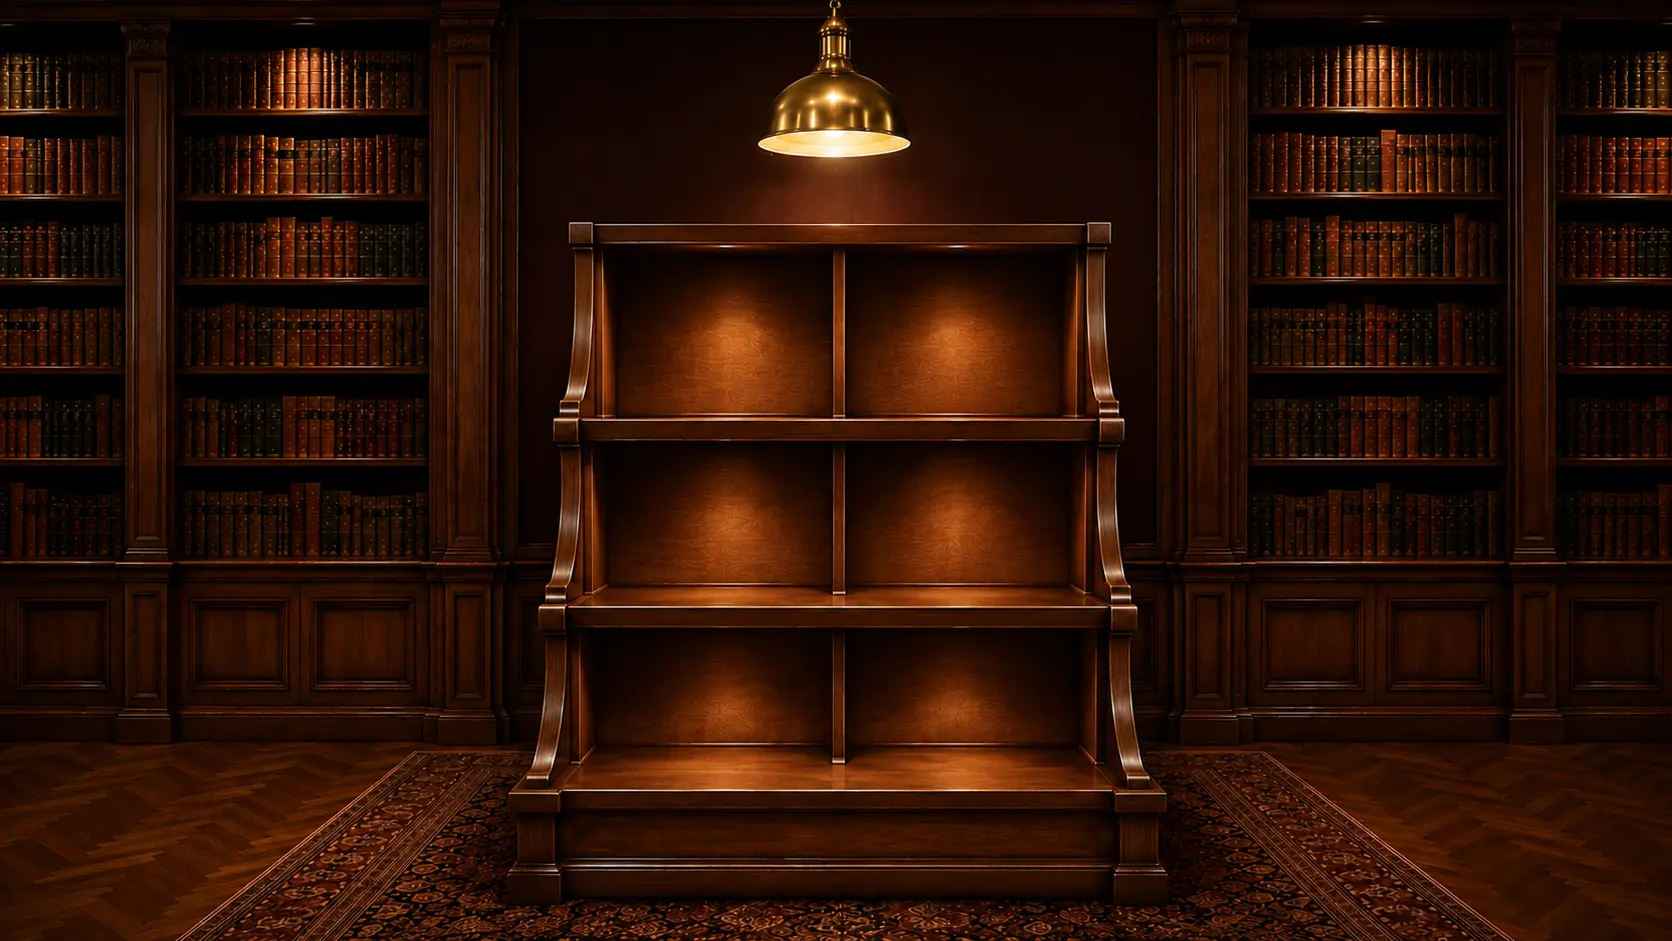
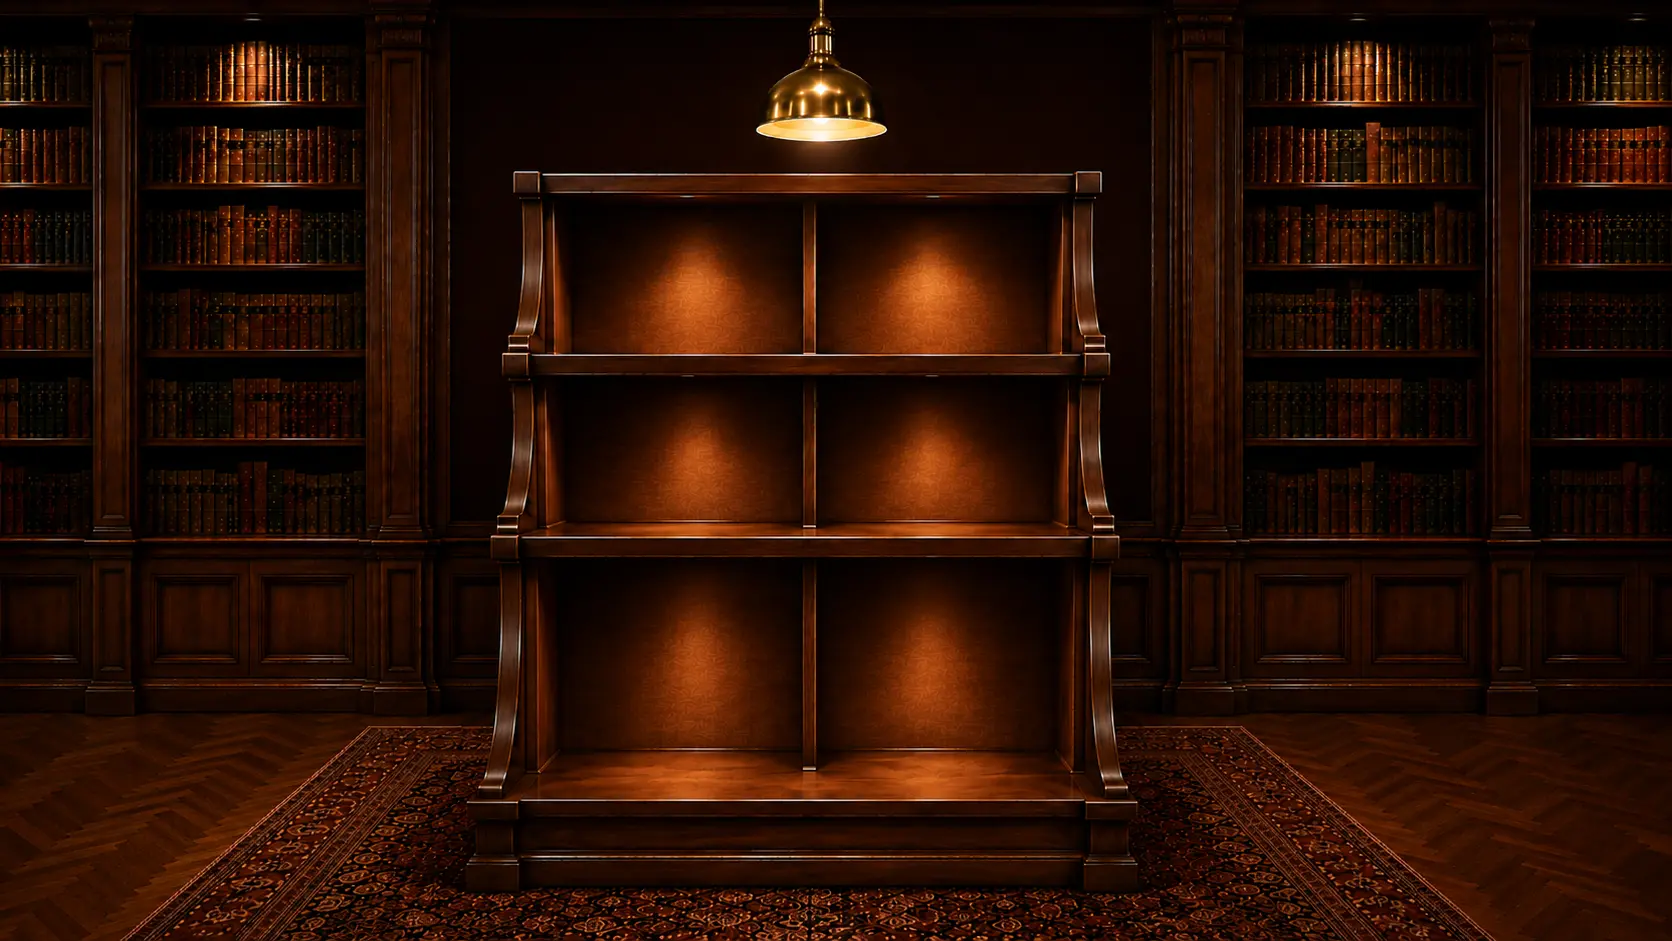
Add files via upload

diff --git a/wunderkammer_shell_v4_4.html b/wunderkammer_shell_v4_4.html
@@ -494,6 +494,24 @@ html, body {
   transform: translate(-50%, -100%) translateY(-8px) scale(1.05);
   filter: drop-shadow(5px 10px 18px rgba(0,0,0,0.9)); z-index: 10;
 }
+/* ── 편집 모드 (heritage 보물 편집 이식: 선택·드래그·핸들 크기) ── */
+.floor-content[data-floor="3"].editing .cover-book { cursor: grab; }
+.floor-content[data-floor="3"].editing .cover-book:hover { transform: translate(-50%,-100%); filter: drop-shadow(2px 5px 10px rgba(0,0,0,0.75)); }
+.floor-content[data-floor="3"].editing .cover-book.grabbing { cursor: grabbing; }
+.floor-content[data-floor="3"] .cover-book.sel img { outline: 2px solid #e9cf9c; outline-offset: 4px; }
+.floor-content[data-floor="3"] .cover-book .bk-handle {
+  position: absolute; right: -11px; bottom: -11px; width: 24px; height: 24px;
+  border-radius: 50%; background: #e9cf9c; border: 2px solid #5a3a18;
+  cursor: nwse-resize; display: none; z-index: 7; touch-action: none;
+}
+.floor-content[data-floor="3"].editing .cover-book.sel .bk-handle { display: block; }
+.floor-content[data-floor="3"] .bk-edit-toggle {
+  position: absolute; left: 50%; bottom: 54px; transform: translateX(-50%);
+  padding: 9px 18px; border-radius: 20px; font-size: 13px; cursor: pointer;
+  background: rgba(40,25,20,0.82); color: #e8d4a0; border: 1px solid rgba(184,136,76,0.5);
+  z-index: 12; transition: background 0.2s, color 0.2s;
+}
+.floor-content[data-floor="3"] .bk-edit-toggle.on { background: #b8884c; color: #2a1810; font-weight: 600; }
 /* 진열대 UI — fixed → absolute (층 박스 기준) */
 .floor-content[data-floor="3"] .bk-nav-arrow {
   position: absolute; top: 50%; transform: translateY(-50%);
@@ -2387,6 +2405,8 @@ const Floor3 = (() => {
   let currentShelfPage = 0;
   let isTransitioning = false;
   let soundEnabled = true;
+  let editMode = false;     // ✎ 배치 바꾸기 (heritage 보물 편집 이식)
+  let selEl = null;         // 현재 선택된 책 el
 
   function markup() {
     return `
@@ -2403,18 +2423,23 @@ const Floor3 = (() => {
         <button class="bk-nav-arrow bk-nav-right" id="bk-next">›</button>
         <div class="bk-dots" id="bk-dots"></div>
         <div class="bk-hint">책을 클릭해 펼쳐보세요</div>
+        <button class="bk-edit-toggle" id="bk-edit-toggle">✎ 배치 바꾸기</button>
         <button class="pw-toggle" aria-label="인물벽으로 돌아서기">✦ 나의 별들</button>
         <div class="pw-face"><div class="pw-canvas"></div></div>
       </div>`;
   }
 
   async function mount() {
-    currentShelfPage = 0; isTransitioning = false;
+    currentShelfPage = 0; isTransitioning = false; editMode = false; selEl = null;
     await loadBooks();                                 // DB(wunderkammer_books) → BOOKS, PAGES
     buildShelfPages();
     buildDots();
     document.getElementById('bk-prev').addEventListener('click', () => slide(-1));
     document.getElementById('bk-next').addEventListener('click', () => slide(+1));
+    const eb = document.getElementById('bk-edit-toggle');
+    if (eb) { eb.classList.remove('on'); eb.textContent = '✎ 배치 바꾸기'; eb.addEventListener('click', toggleEdit); }
+    const fc = document.querySelector('.floor-content[data-floor="3"]');
+    if (fc) fc.classList.remove('editing');
     SideWall.bind(3);                                  // 인물벽(저술가) 90도
   }
 
@@ -2425,11 +2450,12 @@ const Floor3 = (() => {
     if (!uid) { buildPages(); return; }
     try {
       const rows = await sbFetch(`/rest/v1/wunderkammer_books?owner_id=eq.${uid}`
-        + `&select=id,title,author,cover_url,cover_w,cover_h,essay_title,essay_body,seq`
+        + `&select=id,title,author,cover_url,cover_w,cover_h,pos_x,pos_y,scale,tilt,essay_title,essay_body,seq`
         + `&order=seq.asc.nullslast,created_at.asc`);
       BOOKS = (rows || []).map(r => ({
         id: r.id, title: r.title, author: r.author, cover: r.cover_url,
         cover_w: r.cover_w, cover_h: r.cover_h,
+        pos_x: r.pos_x, pos_y: r.pos_y, scale: r.scale, tilt: r.tilt,
         essay_title: r.essay_title, essay_body: r.essay_body
       }));
     } catch (e) { BOOKS = []; }
@@ -2445,6 +2471,14 @@ const Floor3 = (() => {
     if (!PAGES.length) PAGES = [[]];   // 빈 책방도 한 페이지(화살표·닷 안전)
   }
 
+  // 책 한 권을 칸에 앉힌다 — pos_x/pos_y/scale 있으면 그 값, 없으면 칸 기본(SHELF_SLOTS)
+  function placeBook(el, book, slot) {
+    const x = (book.pos_x != null) ? book.pos_x : slot.left;
+    const y = (book.pos_y != null) ? book.pos_y : slot.top;
+    const h = slot.height * (book.scale != null ? book.scale : 1);
+    el.style.left = x + '%'; el.style.top = y + '%'; el.style.height = h + '%';
+  }
+
   function buildShelfPages() {
     const stack = document.getElementById('bk-cover-stack');
     stack.innerHTML = '';
@@ -2454,13 +2488,109 @@ const Floor3 = (() => {
       pageData.forEach(({ book, slot }) => {
         const el = document.createElement('div');
         el.className = 'cover-book';
-        el.style.left = slot.left + '%'; el.style.top = slot.top + '%'; el.style.height = slot.height + '%';
-        el.innerHTML = `<img src="${book.cover}" alt="${book.title}" title="${book.title} · ${book.author}">`;
-        el.addEventListener('click', () => openBook(book));
+        el._book = book; el._slot = slot;
+        placeBook(el, book, slot);
+        el.innerHTML = `<img src="${book.cover}" alt="${book.title}" title="${book.title} · ${book.author}"><div class="bk-handle" data-h="1"></div>`;
+        el.addEventListener('click', (e) => {
+          if (editMode) { if (!e.target.dataset.h) selectBook(el); return; }  // 편집 중엔 선택만(모달 차단)
+          openBook(book);
+        });
+        bindEdit(el);
         page.appendChild(el);
       });
       stack.appendChild(page);
     });
+  }
+
+  // ════ 편집 모드 (heritage 보물 편집 이식: 선택·드래그·핸들 크기·DB 저장) ════
+  function toggleEdit() {
+    editMode = !editMode;
+    const fc = document.querySelector('.floor-content[data-floor="3"]');
+    if (fc) fc.classList.toggle('editing', editMode);
+    const btn = document.getElementById('bk-edit-toggle');
+    if (btn) { btn.classList.toggle('on', editMode); btn.textContent = editMode ? '✓ 완료' : '✎ 배치 바꾸기'; }
+    if (!editMode && selEl) { selEl.classList.remove('sel'); selEl = null; }
+  }
+  function selectBook(el) {
+    if (selEl && selEl !== el) selEl.classList.remove('sel');
+    selEl = el; el.classList.add('sel');
+  }
+
+  // 드래그 이동 + 휠/핸들 크기 (마우스·터치 양쪽)
+  function bindEdit(el) {
+    const book = el._book, slot = el._slot;
+    // ── 위치 드래그 ──
+    let drag = false, sx, sy, bx, by;
+    const dStart = (cx, cy) => {
+      if (!editMode) return;
+      selectBook(el); drag = true; sx = cx; sy = cy;
+      bx = (book.pos_x != null) ? book.pos_x : slot.left;
+      by = (book.pos_y != null) ? book.pos_y : slot.top;
+      el.classList.add('grabbing');
+    };
+    const dMove = (cx, cy) => {
+      if (!drag) return;
+      const stack = el.closest('.cover-stack'); if (!stack) return;
+      const rw = stack.offsetWidth, rh = stack.offsetHeight;
+      book.pos_x = +(bx + ((cx - sx) / rw) * 100).toFixed(1);
+      book.pos_y = +(by + ((cy - sy) / rh) * 100).toFixed(1);
+      placeBook(el, book, slot);
+    };
+    const dEnd = () => { if (!drag) return; drag = false; el.classList.remove('grabbing'); saveBook(book); };
+    el.addEventListener('mousedown', (e) => {
+      if (!editMode || e.target.dataset.h) return;
+      e.preventDefault(); dStart(e.clientX, e.clientY);
+      const mm = ev => dMove(ev.clientX, ev.clientY);
+      const mu = () => { dEnd(); removeEventListener('mousemove', mm); removeEventListener('mouseup', mu); };
+      addEventListener('mousemove', mm); addEventListener('mouseup', mu);
+    });
+    el.addEventListener('touchstart', (e) => {
+      if (!editMode || e.target.dataset.h) return;
+      const t = e.touches[0]; dStart(t.clientX, t.clientY);
+    }, { passive: true });
+    el.addEventListener('touchmove', (e) => {
+      if (!drag) return; e.preventDefault(); const t = e.touches[0]; dMove(t.clientX, t.clientY);
+    }, { passive: false });
+    el.addEventListener('touchend', dEnd);
+    el.addEventListener('touchcancel', dEnd);
+    // ── 휠 크기 (PC) ──
+    el.addEventListener('wheel', (e) => {
+      if (!editMode) return; e.preventDefault(); selectBook(el);
+      const cur = (book.scale != null) ? book.scale : 1;
+      book.scale = +Math.max(0.4, Math.min(2.5, cur + (e.deltaY < 0 ? 0.04 : -0.04))).toFixed(3);
+      placeBook(el, book, slot);
+      clearTimeout(el._szT); el._szT = setTimeout(() => saveBook(book), 400);
+    }, { passive: false });
+    // ── 핸들 크기 (드래그) ──
+    const handle = el.querySelector('.bk-handle');
+    let hBase, hsx;
+    const hStart = (cx) => { selectBook(el); hBase = (book.scale != null) ? book.scale : 1; hsx = cx; };
+    const hMove = (cx) => {
+      book.scale = +Math.max(0.4, Math.min(2.5, hBase + (cx - hsx) / 120)).toFixed(3);
+      placeBook(el, book, slot);
+    };
+    handle.addEventListener('mousedown', (e) => {
+      if (!editMode) return; e.preventDefault(); e.stopPropagation(); hStart(e.clientX);
+      const mm = ev => hMove(ev.clientX);
+      const mu = () => { saveBook(book); removeEventListener('mousemove', mm); removeEventListener('mouseup', mu); };
+      addEventListener('mousemove', mm); addEventListener('mouseup', mu);
+    });
+    handle.addEventListener('touchstart', (e) => {
+      if (!editMode) return; e.stopPropagation(); hStart(e.touches[0].clientX);
+      const tm = ev => { ev.preventDefault(); hMove(ev.touches[0].clientX); };
+      const tu = () => { saveBook(book); removeEventListener('touchmove', tm); removeEventListener('touchend', tu); };
+      addEventListener('touchmove', tm, { passive: false }); addEventListener('touchend', tu);
+    }, { passive: true });
+  }
+
+  // 저장 — wunderkammer_books PATCH (pos_x/pos_y/scale 즉시 기록, RLS가 본인 책만 허용)
+  async function saveBook(book) {
+    try {
+      await sbFetch(`/rest/v1/wunderkammer_books?id=eq.${book.id}`, {
+        method: 'PATCH', headers: { 'Prefer': 'return=minimal' },
+        body: JSON.stringify({ pos_x: book.pos_x, pos_y: book.pos_y, scale: book.scale })
+      });
+    } catch (e) { /* 저장 실패는 조용히 — 다음 조작에서 재시도 */ }
   }
   function buildDots() {
     const dots = document.getElementById('bk-dots');
